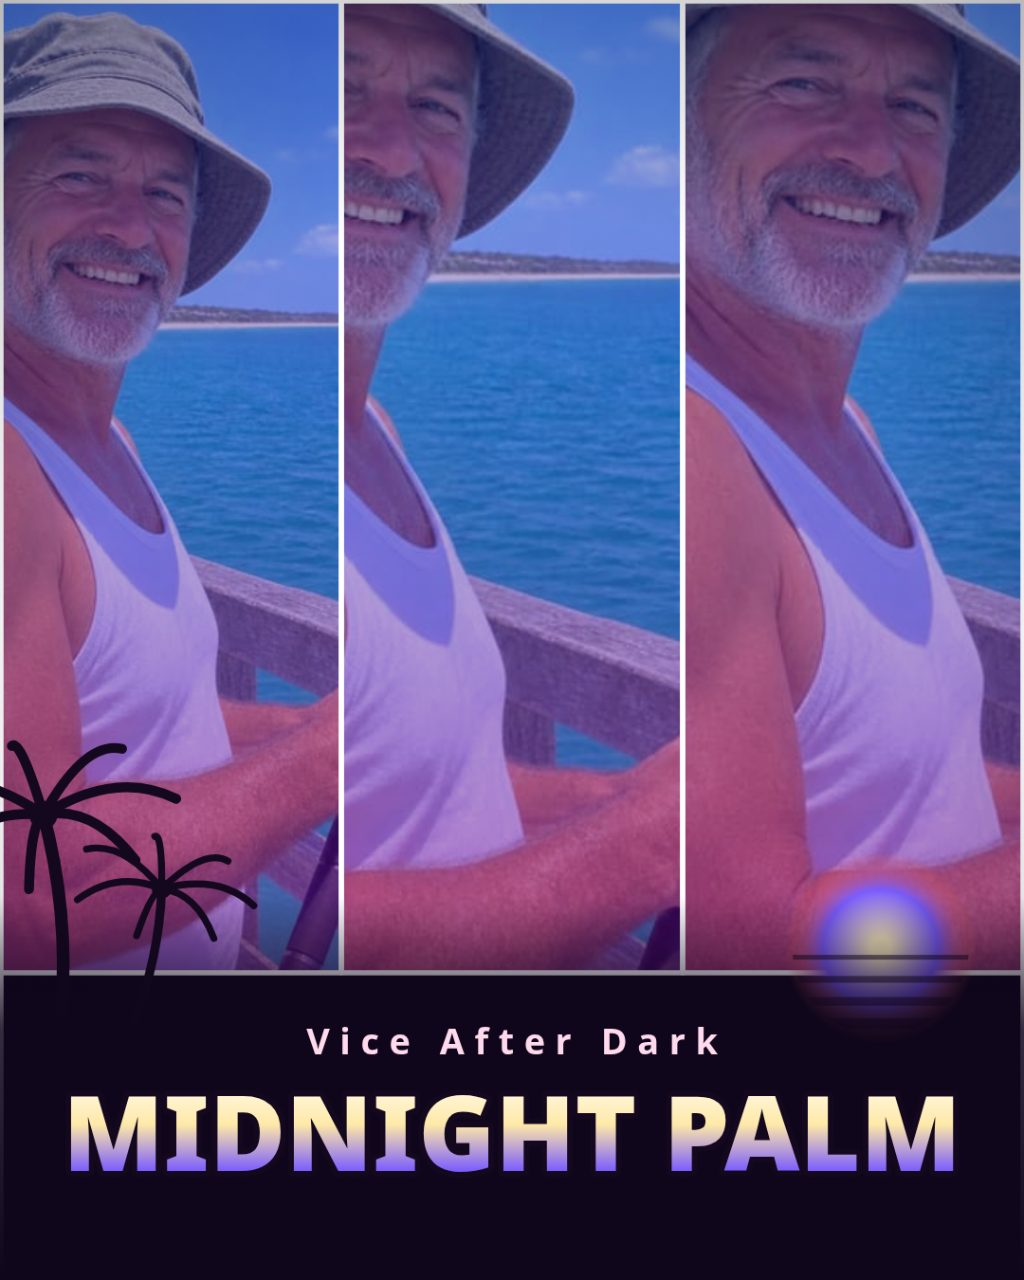
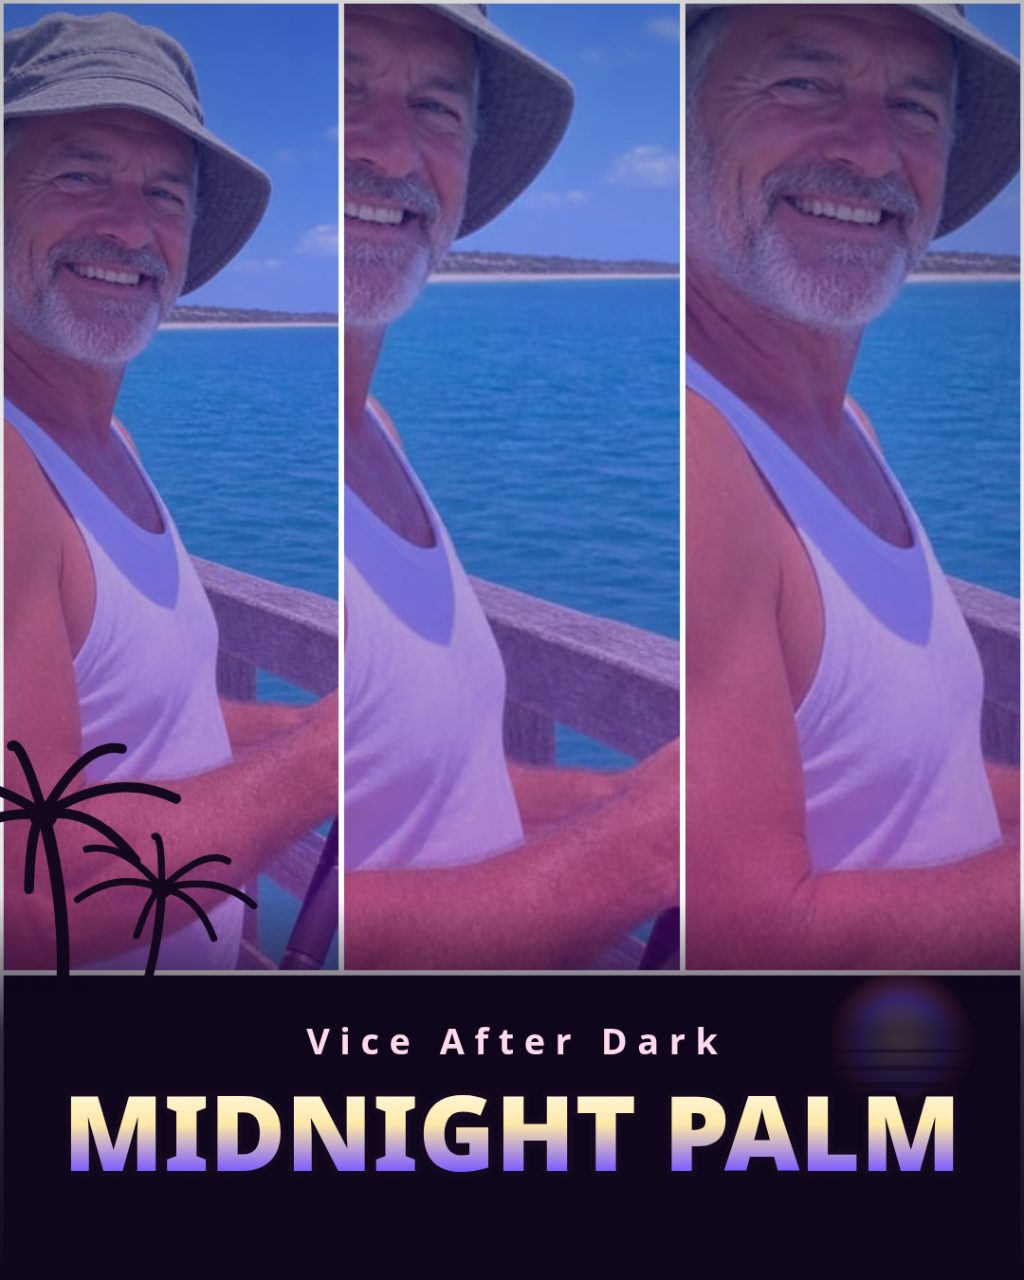
Revision: sun disc sits in the caption band, not over photos
The retro sun used to straddle the panel/caption boundary and float
over a panel photo (visible in the portrait strip shot). It now sits
low in the caption band as an accent, and 3-cover.jpg was re-shot.

Changed region(s): [[0.7812, 0.6562, 0.9375, 0.8438]]

diff --git a/app/src/render.js b/app/src/render.js
@@ -243,8 +243,9 @@ export function renderCover(canvas, state) {
   rects.forEach((r) => ctx.strokeRect(r.x, r.y, r.w, r.h));
   ctx.lineWidth = Math.max(6, w * 0.007);
   ctx.strokeRect(0, 0, w, h);
-  // Sun disc + palms peeking over the caption band.
-  drawSun(ctx, w * 0.86, h * 0.74, h * 0.075, grade.sky);
+  // Sun disc + palms peeking over the caption band. The sun sits low,
+  // inside the caption band, so it never floats over a panel's photo.
+  drawSun(ctx, w * 0.88, h * 0.815, h * 0.058, grade.sky);
   const palmS = h * 0.0011;
   drawPalm(ctx, w * 0.06, h * 0.79, palmS, -0.12);
   drawPalm(ctx, w * 0.13, h * 0.80, palmS * 0.7, 0.18);
